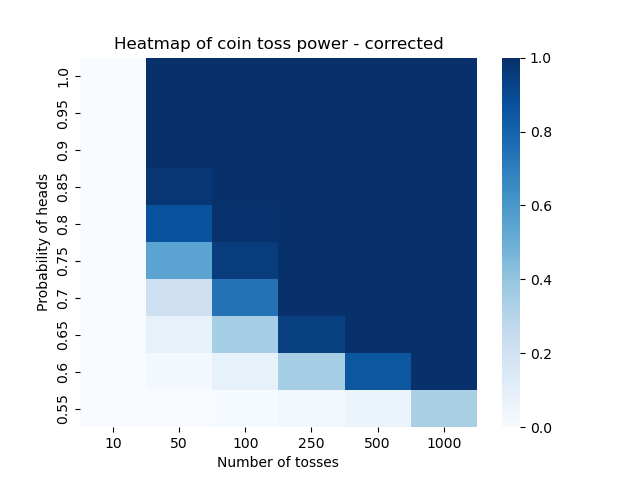
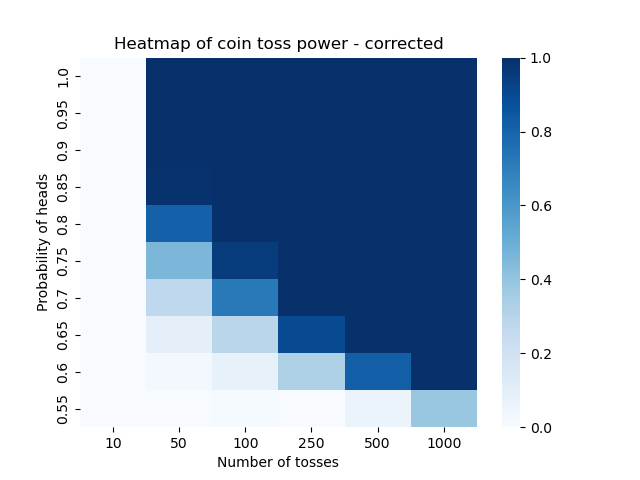
Updated after TA feedback

Changed region(s): [[0.2188, 0.5, 0.3438, 0.5938]]

diff --git a/day4-homework/day4-homework.py b/day4-homework/day4-homework.py
@@ -1,0 +1,135 @@
+#!/usr/bin/env python
+
+import numpy
+from scipy.stats import binomtest
+import matplotlib.pyplot as plt
+import seaborn as sns
+from statsmodels.stats.multitest import multipletests
+
+def simulate_coin_toss(n_tosses, prob_heads = 0.5, seed=None):
+    '''
+    Simulates a coin toss (fair or unfair depending on prob_heads)
+    Input: n_tosses, an integer, number of coin tosses to simulate
+           prob_heads, a float, the probability the coin toss will return heads; default is 0.5, meaning a fair coin
+           seed, an integer, the random seed that will be used in the simulation; default is None
+    Output: results_arr, an array of 1's and 0's with 1's representing heads and 0's representing tails
+    Resources: https://numpy.org/doc/stable/reference/random/generated/numpy.random.choice.html
+    '''
+    if seed is not None:
+        numpy.random.seed(seed)
+    results_arr = numpy.random.choice([0,1], size=n_tosses, p = [1-prob_heads, prob_heads])
+    return (results_arr)
+
+def perform_hypothesis_test(n_heads, n_tosses):
+    '''
+    Performs a two-sided binomial test
+    Input: n_heads, an integer, number of coin tosses that resulted in heads/success
+           n_tosses, an integer, total number of coin tosses/trials
+    Output: pval, a float reporting the final pvalue from the binomial test
+    Resources: https://docs.scipy.org/doc/scipy/reference/generated/scipy.stats.binomtest.html#scipy.stats.binomtest
+    '''
+    binom_result = binomtest(n_heads, n_tosses)
+    pval = binom_result.pvalue
+    return(pval)
+
+def correct_pvalues(pvals):
+    '''
+    Will apply the bonferroni multiple hypothesis testing correction method to input pvalues
+    Input: pvals, an array-like object containing uncorrected pvalues
+    Output: corrected_pvalues[1], an array containing corrected pvalues
+    Resources: https://www.statsmodels.org/dev/generated/statsmodels.stats.multitest.multipletests.html
+    '''
+    corrected_pvalues = multipletests(pvals, method='bonferroni')
+    return(corrected_pvalues[1])
+
+def interpret_pvalues(pvals):
+    '''
+    Will interpret or convert pvalues from floats to booleans (Trues or Falses) reporting whether or not you reject the null hypothesis
+    True -- reject null Hypothesis
+    False -- fail to reject null hypothesis
+    Input: pvals, an array-like object containing pvalues (floats)
+    Output: interpreted, an array containing booleans
+    '''
+    interpreted = numpy.array(pvals) < 0.05
+    return (interpreted)
+
+def compute_power(n_rejected_correctly, n_tests):
+    '''
+    Will compute the power, defined as the number of correctly rejected null hypothesis divided by the total number of tests (AKA the True Positive Rate or the probability of detecting something if it's there)
+    Input: n_rejected_correctly, an integer, the total number of tests in which the null hypothesis was correctly rejected
+           n_tests, an integer, the total number of hypothesis tests which were performed
+    output: power, a float, the power
+    '''
+    power = n_rejected_correctly / n_tests
+    return(power)
+
+def run_experiment(probs_heads, n_tosses, n_iters = 100, seed = 389, correct_the_pvalues = False):
+    '''
+    Input: prob_heads, a list of floats, the probability of a simulated coin toss returning heads
+           n_toss, a list of integers, the number of coin tosses to simulate
+           n_iters, an integer, the number of iterations for each simulation. default is 100
+           seed, an integer, the random seed that you will set for the whole simulation experiment. default is 389
+           correct_the_pvalues, a boolean, whether or not to perform multiple hypothesis testing correction
+    Output: power, a float, the power of the experiment
+    '''
+    numpy.random.seed(seed)
+    power_mat = numpy.zeros((len(probs), len(tosses)))
+    # loop through the list of probability heads
+    for i, prob_heads in enumerate(probs):
+        # loop through the number of tosses
+        for j, n_toss in enumerate(tosses):
+            pvals = []
+            for k in range(n_iters):
+                results_arr = simulate_coin_toss(n_toss, prob_heads = prob_heads)
+                n_success = numpy.sum(results_arr)
+                pvals.append(perform_hypothesis_test(n_success, n_toss))
+            # IF corrected pvalues are wanted
+            if correct_the_pvalues:
+                pvals = correct_pvalues(pvals)
+            pvals_translated_to_bools = interpret_pvalues(pvals)
+            power = compute_power(numpy.sum(pvals_translated_to_bools), n_iters)
+            power_mat[i,j] = power
+    return(power_mat)
+
+
+# power1 = run_experiment(0.6, 500, correct_the_pvalues = True)
+# power2 = run_experiment(0.95, 10, correct_the_pvalues = True)
+# power2b = run_experiment(0.95, 10)
+
+tosses = numpy.array([10, 50, 100, 250, 500, 1000])
+probs = numpy.around(numpy.arange(0.55, 1.05, 0.05), decimals=2)[::-1]
+
+# create the matrix of uncorrected power values
+power_mat_uncorr = run_experiment(probs, tosses)
+
+# plot the not corrected heatmap of power values
+fig, ax = plt.subplots()
+ax = sns.heatmap(power_mat_uncorr,
+                vmin=0,
+                vmax=1,
+                cmap="Blues",
+                xticklabels=tosses,
+                yticklabels=probs)
+ax.set_xlabel("Number of tosses")
+ax.set_ylabel("Probability of heads")
+plt.title("Heatmap of coin toss power - not corrected")
+plt.savefig("heatmap_not_corrected.png")
+plt.close(fig)
+
+# create the matrix of corrected power values
+power_mat_corr = run_experiment(probs, tosses, correct_the_pvalues=True)
+
+# plot the corrected heatmap of power values
+fig, ax = plt.subplots()
+ax = sns.heatmap(power_mat_corr,
+                vmin=0,
+                vmax=1,
+                cmap="Blues",
+                xticklabels=tosses,
+                yticklabels=probs)
+ax.set_xlabel("Number of tosses")
+ax.set_ylabel("Probability of heads")
+plt.title("Heatmap of coin toss power - corrected")
+plt.savefig("heatmap_corrected.png")
+plt.close(fig)
+        

diff --git a/day4-homework/README.md b/day4-homework/README.md
@@ -20,3 +20,11 @@ our experiment and correlating with transmission rate and number of sperm in the
 probability of heads seems to correspond to the transmission rate axis while the number of
 tosses corresponds to the number of sperm. Both simulations use a binomial test because there
 are only two conditions: (1) heads or tails or (2) allele1 or allele2.
+
+##Response to feedback
+I made a new file (day4-homework) where function is called once rather than repeatedly. As we
+spoke about with Jack and through Slack, the results are different from if you call the 
+function repeatedly and set the random seed every time.
+
+To be more specific about the correlation, the power increases with increasing probability of heads 
+and increasing the number of coin tosses.  
